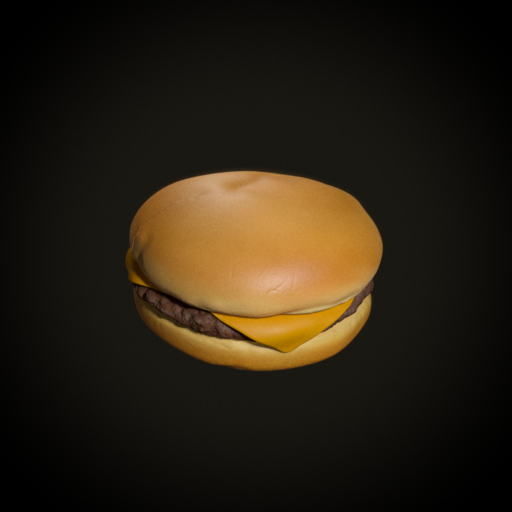
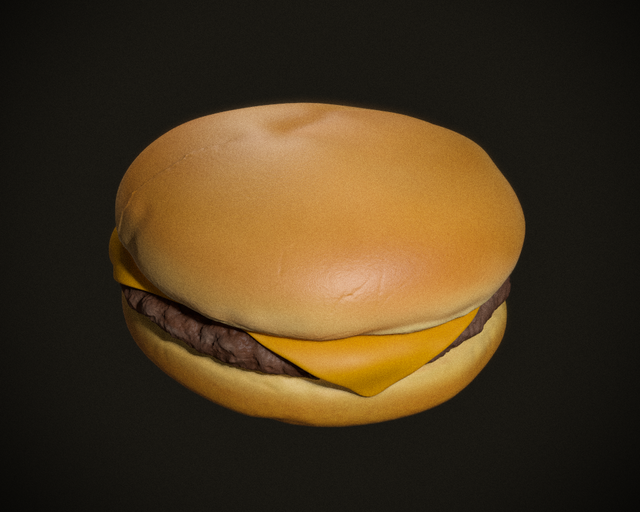
Some more items. Using marked now for optional description

Changed region(s): [[0.1562, 0.1875, 0.8438, 0.8438]]

diff --git a/src/items.ts b/src/items.ts
@@ -15,10 +15,23 @@ export const img = (name: string, aspect_ratio: string): ItemImage => ({
 });
 
 export const items: Item[] = [
+              {
+    title: "LSP, courage & spongebob pins",
+    category: "jewelry & pins",
+    image: img("lsp_courage_spongebob_pins", "1 / 1"),
+    date: "2022-08-17",
+    description: "These were primarily an experiment, and I love how they turned out! Each character started as a vector drawing in Affinity Designer, which I then brought into Fusion 360 and extruded into a pin base with recessed sections. After printing them on a resin printer, I painted the recesses with acrylics and topped everything with UV-curing resin for that glossy faux-enamel finish."
+  },
+            {
+    title: "duo the owl",
+    category: "sculpting",
+    image: img("duo_render", "5 / 4"),
+    date: "2026-03-28",
+  },
           {
     title: "cheeseburger",
     category: "sculpting",
-    image: img("cheeseburger", "1 / 1"),
+    image: img("cheeseburger", "5 / 4"),
     date: "2026-03-28",
   },
         {
@@ -42,7 +55,7 @@ export const items: Item[] = [
   {
     title: "white castle slider (acrylic)",
     category: "painting",
-    image: img("white_castle_slider", "1 / 1"),
+    image: img("white_castle_slider", "5 / 4"),
     date: "2021-09-21",
   },
   {
@@ -50,6 +63,7 @@ export const items: Item[] = [
     category: "baking",
     image: img("red_velvet", "5 / 4"),
     date: "2023-06-16",
+    description: "I went a bit old-school with this red velvet cake and skipped the cream cheese frosting in favor of ermine — the original frosting for this cake. It's made by cooking flour and milk into a paste before whipping it with butter and sugar. It's not the best choice for detailed decorating, but it has a nice silky texture and is considerably less sweet than American buttercream."
   },
   {
     title: "birthday bear",
@@ -116,6 +130,7 @@ export const items: Item[] = [
     category: "baking",
     image: img("macarons", "3 / 2"),
     date: "2023-03-20",
+    description: "I believe this was my fourth, maybe fifth attempt at making macarons. I am really proud of how these turned out! The best part: with so many yolks left over from the shells, I put them straight to use in a chocolate German buttercream filling"
   },
   {
     title: "Ice Cream (Acrylic)",
@@ -130,7 +145,7 @@ export const items: Item[] = [
     date: "2021-08-11",
   },
   {
-    title: 'Pâte Sablée "Cake" With Chantilly Mascarpone',
+    title: 'Pâte Sablée & Mascarpone Chantilly Tart',
     category: "baking",
     image: img("63", "5 / 4"),
     date: "2023-08-29",
@@ -220,7 +235,7 @@ export const items: Item[] = [
     date: "2021-09-21",
   },
   {
-    title: "Cake I",
+    title: "Pink Rosette Marble Cake",
     category: "baking",
     image: img("rosette_cake", "4 / 3"),
     date: "2023-06-07",
@@ -256,10 +271,11 @@ export const items: Item[] = [
     date: "2021-05-05",
   },
   {
-    title: "Cake II",
+    title: "vintage-style vanilla cherry cake",
     category: "baking",
     image: img("vintage_cherry", "4 / 5"),
     date: "2023-11-24",
+    description: "A birthday cake that was really fun to make! Vanilla cake layered with homemade cherry filling and finished with Swiss meringue buttercream."
   },
   {
     title: "courage the cowardly dog",

diff --git a/src/components/ItemCard.vue b/src/components/ItemCard.vue
@@ -1,0 +1,53 @@
+<template>
+  <div class="card">
+    <div class="card-image-container" v-viewer :backdrop="false">
+      <img class="card-image" :style="{ 'aspect-ratio': item.image.aspect_ratio }" :src="item.image.thumbnail"
+        :data-src="item.image.source" :alt="item.title" loading="lazy" />
+    </div>
+    <div class="card-header">
+      <div class="card-title">{{ item.title }}</div>
+      <template v-if="item.description" >
+      <p v-html=" marked.parse(item.description)"></p>
+      </template>
+    </div>
+    <div class="card-footer">
+      <span class="card-date">{{ formatDate(item.date) }}</span>
+      <div class="chip">{{ item.category }}</div>
+    </div>
+  </div>
+</template>
+
+<script setup lang="ts">
+defineProps<{
+  item: Item
+}>()
+
+import { marked } from 'marked';
+
+function formatDate(date: string) {
+  const date_= new Date(`${date}T12:00:00-06:30`)
+  const months = [
+    "JAN",
+    "FEB",
+    "MAR",
+    "APR",
+    "MAY",
+    "JUN",
+    "JUL",
+    "AUG",
+    "SEP",
+    "OCT",
+    "NOV",
+    "DEC",
+  ];
+  return (
+    months[date_.getMonth()] +
+    " " +
+    date_.getDate() +
+    ", " +
+    (date_.getFullYear())
+  );
+}
+</script>
+
+<style></style>

diff --git a/src/App.vue b/src/App.vue
@@ -1,7 +1,7 @@
 <script setup lang="ts">
 import { ref, computed } from "vue";
 import { items } from "./items.ts";
-import CardItem from "./components/CardItem.vue";
+import ItemCard from "./components/ItemCard.vue";
 
 const categories: Category[] = ["3d printing", "baking", "calligraphy & lettering", "electronics & programming", "digital art", "drawing", "jewelry & pins", "painting", "paracord", "printmaking", "sculpting", "sewing & embroidery"]
 
@@ -46,8 +46,7 @@ const itemsFiltered = computed(() => shuffle(items
     <div class="cards">
       <TransitionGroup name="list">
         <div v-for="item in itemsFiltered" :key="item.title">
-          <CardItem :item=item>
-          </CardItem>
+          <ItemCard :item=item />
         </div>
       </TransitionGroup>
     </div>

diff --git a/src/types.d.ts b/src/types.d.ts
@@ -27,6 +27,7 @@ declare global {
     category: Category,
     image: ItemImage,
     date: string,
+    description?: string,
   }
 
 }
